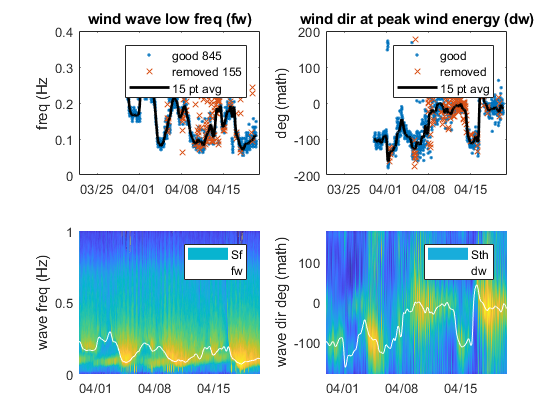
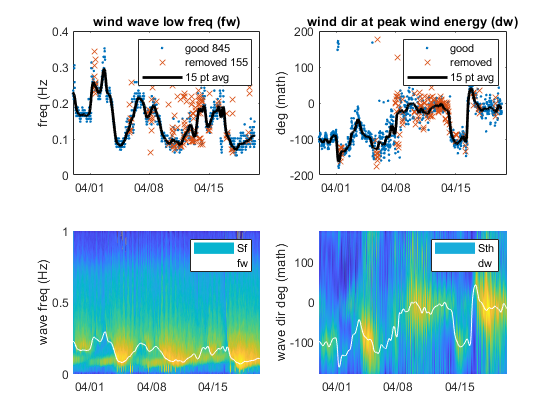
updated master_partition.m

diff --git a/html/waveparamspart.html b/html/waveparamspart.html
@@ -6,7 +6,7 @@
    <!--
 This HTML was auto-generated from MATLAB code.
 To make changes, update the MATLAB code and republish this document.
-      --><title>waveparamspart</title><meta name="generator" content="MATLAB 9.3"><link rel="schema.DC" href="http://purl.org/dc/elements/1.1/"><meta name="DC.date" content="2019-04-12"><meta name="DC.source" content="waveparamspart.m"><style type="text/css">
+      --><title>waveparamspart</title><meta name="generator" content="MATLAB 9.3"><link rel="schema.DC" href="http://purl.org/dc/elements/1.1/"><meta name="DC.date" content="2019-10-13"><meta name="DC.source" content="waveparamspart.m"><style type="text/css">
 html,body,div,span,applet,object,iframe,h1,h2,h3,h4,h5,h6,p,blockquote,pre,a,abbr,acronym,address,big,cite,code,del,dfn,em,font,img,ins,kbd,q,s,samp,small,strike,strong,sub,sup,tt,var,b,u,i,center,dl,dt,dd,ol,ul,li,fieldset,form,label,legend,table,caption,tbody,tfoot,thead,tr,th,td{margin:0;padding:0;border:0;outline:0;font-size:100%;vertical-align:baseline;background:transparent}body{line-height:1}ol,ul{list-style:none}blockquote,q{quotes:none}blockquote:before,blockquote:after,q:before,q:after{content:'';content:none}:focus{outine:0}ins{text-decoration:none}del{text-decoration:line-through}table{border-collapse:collapse;border-spacing:0}
 
 html { min-height:100%; margin-bottom:1px; }
@@ -66,26 +66,32 @@ table td { padding:7px 5px; text-align:left; vertical-align:top; border:1px soli
 
 
 
-  </style></head><body><div class="content"><h2>Contents</h2><div><ul><li><a href="#1">waveparamspart.m</a></li><li><a href="#3">Inputs</a></li><li><a href="#4">Outputs</a></li><li><a href="#5">Uses</a></li><li><a href="#6">Authors</a></li><li><a href="#7">Copyright 2019 Douglas Cahl, George Voulgaris</a></li><li><a href="#8">Main Function</a></li></ul></div><h2 id="1">waveparamspart.m</h2><pre class="codeinput"><span class="keyword">function</span> [f,D,Ee,H] = waveparamspart(E,freq,dir,AA,h)
-</pre><pre>[f,D,Ee,H] = waveparamspart(E,freq,dir,AA,[h])</pre><pre>Function to calculate the wave parameters for each partition of the
-spectrum. The peak values for each partition are estimated as well as
-the mean and other parameters as described in Hanson and Phillips (2001)
-(see Appendix therein).</pre><h2 id="3">Inputs</h2><pre>E    = Directional Wave energy density (m2/Hz/deg)
+  </style></head><body><div class="content"><h2>Contents</h2><div><ul><li><a href="#1">waveparamspart.m</a></li><li><a href="#3">Inputs</a></li><li><a href="#4">Outputs</a></li><li><a href="#5">Uses</a></li><li><a href="#6">Updates</a></li><li><a href="#7">Authors</a></li><li><a href="#8">Copyright 2019 Douglas Cahl, George Voulgaris</a></li><li><a href="#9">Main Function</a></li></ul></div><h2 id="1">waveparamspart.m</h2><pre class="codeinput"><span class="keyword">function</span> [f,D,Ee,H,Er,Np] = waveparamspart(E,freq,dir,AA,h)
+</pre><pre>[f,D,Ee,H,Er,Np] = waveparamspart(E,freq,dir,AA,[h])</pre><pre>Function to calculate the wave parameters for each partition of the
+spectrum plus the total bulk parameters using the full, unpartitioned spectrum.
+The peak and mean values for each partition are estimated as well as
+other parameters as described in Hanson and Phillips (2001),(see Appendix therein).</pre><h2 id="3">Inputs</h2><pre>E    = Directional Wave energy density (m2/Hz/deg)
 freq = frequency array of spectral estimates (Hz)
 dir  = direction array of spectral estimates (degs)
 AA   = Matrix same dimensions as E indentifying partition element by a number.
-h    = water depth [Optional]</pre><h2 id="4">Outputs</h2><pre>f(2,n) = [fm fp] Mean and Peak frequency of each partition n (Hz)
-D(3,n) = [Dm Dp sigma] Mean and Peak direction (degs) and Directional spead of each partition n
-Ee(2,n)= [Et Ep] Total and Peak energy of each partition n (m2 and m2/Hz/degs)
-H(3,n) = [Hrms Hsig psi] rms and significant wave height (m) and significant slope</pre><h2 id="5">Uses</h2><pre>dispersion.m  - function to solve the dispersion equation for shallow waters</pre><h2 id="6">Authors</h2><pre>Douglas Cahl and George Voulgaris
+h    = water depth [Optional]</pre><h2 id="4">Outputs</h2><pre>f (1:2,1:Np+1) = [fm fp] Mean and Peak frequency of each partition (Hz)
+D (1:3,1:Np+1) = [Dm Dp sigma] Mean and Peak direction (degs) and Directional spead of each partition n
+Ee(1:2,1:Np+1) = [Et Ep] Total and Peak energy of each partition n (m2 and m2/Hz/degs)
+H (1:3,1:Np+1) = [Hrms Hsig psi] rms and significant wave height (m) and significant slope
+Er             = Diagnostic error (in %) showing the energy not represented by
+                 the partitions. Er= 100*( Etotal-sum(Epartitions) ) / Etotal.
+Np             = Number of partitions</pre><pre>note:  the bulk parameter values are reported at location Np+1, after
+the partitioned parameters.</pre><h2 id="5">Uses</h2><pre>dispersion.m  - function to solve the dispersion equation for shallow waters</pre><h2 id="6">Updates</h2><pre>10/13/2019    -  The diagnostic Er and bulk parameter estimations were
+                 added. Also the mean period estimation was wrong and it
+                 has been corrected.</pre><h2 id="7">Authors</h2><pre>Douglas Cahl and George Voulgaris
 School of the Earth, Ocean and Environment
-University of South Carolina, Columbia, SC, USA</pre><h2 id="7">Copyright 2019 Douglas Cahl, George Voulgaris</h2><p>This file is part of WavePart.</p><p>WavePart is free software: you can redistribute it and/or modify it under the terms of the GNU General Public License as published by the Free Software Foundation, either version 3 of the License, or (at your option) any later version.</p><p>This program is distributed in the hope that it will be useful, but WITHOUT ANY WARRANTY; without even the implied warranty of MERCHANTABILITY or FITNESS FOR A PARTICULAR PURPOSE.  See the GNU General Public License for more details.</p><p>You should have received a copy of the GNU General Public License along with this program.  If not, see <a href="https://www.gnu.org/licenses/">https://www.gnu.org/licenses/</a>.</p><h2 id="8">Main Function</h2><pre class="codeinput"><span class="keyword">if</span> nargin&lt;5 || isempty(h)
+University of South Carolina, Columbia, SC, USA</pre><h2 id="8">Copyright 2019 Douglas Cahl, George Voulgaris</h2><p>This file is part of WavePart.</p><p>WavePart is free software: you can redistribute it and/or modify it under the terms of the GNU General Public License as published by the Free Software Foundation, either version 3 of the License, or (at your option) any later version.</p><p>This program is distributed in the hope that it will be useful, but WITHOUT ANY WARRANTY; without even the implied warranty of MERCHANTABILITY or FITNESS FOR A PARTICULAR PURPOSE.  See the GNU General Public License for more details.</p><p>You should have received a copy of the GNU General Public License along with this program.  If not, see <a href="https://www.gnu.org/licenses/">https://www.gnu.org/licenses/</a>.</p><h2 id="9">Main Function</h2><pre class="codeinput"><span class="keyword">if</span> nargin&lt;5 || isempty(h)
     h=1000;   <span class="comment">% Deep water conditions</span>
 <span class="keyword">end</span>
 g   = 9.81;
-Nw1 = max(max(AA)); <span class="comment">% total number of partitions</span>
-f   = ones(2,Nw1);
-D   = ones(3,Nw1);
+Np  = max(max(AA)); <span class="comment">% total number of partitions</span>
+f   = ones(2,Np+1);
+D   = ones(3,Np+1);
 Ee  = f;
 H   = D;
 df  = freq(2)-freq(1);
@@ -94,18 +100,25 @@ dth = dir(2)-dir(1);
                     <span class="comment">% nf = no of freq. bins, nd (~)= no of direction bins</span>
 the  = repmat(dir(:)',nf,1);
 <span class="comment">%</span>
-<span class="keyword">for</span> i = 1:Nw1                                 <span class="comment">% for each partition i</span>
-    Mask1   = AA == i;
-    Epart   = E.*Mask1;                       <span class="comment">% Si(f,theta)</span>
+Etotal  = sum(sum(E))*df*dth;                 <span class="comment">% \int S(f,theta) - Total energy</span>
+<span class="comment">%</span>
+<span class="keyword">for</span> i = 1:Np+1                               <span class="comment">% for each partition i, plus total</span>
+    <span class="keyword">if</span> i&lt;=Np
+        Mask1 = AA == i;
+        Epart = E.*Mask1;                     <span class="comment">% Partition i (Si(f,theta))</span>
+    <span class="keyword">else</span>
+        Epart = E;                            <span class="comment">% Total (S(f,theta))</span>
+    <span class="keyword">end</span>
     [~,k]   = max(Epart(:));
-    [I1,J1] = ind2sub(size(AA),k);
+    [I1,J1] = ind2sub(size(Epart),k);
     fp      = freq(I1);                       <span class="comment">% Peak frequency for Si</span>
     Dp      = dir(J1);                        <span class="comment">% Peak direction for Si</span>
     Ep      = E(I1,J1);                       <span class="comment">% Peak energy level for Si</span>
     Et      = sum(sum(Epart))*df*dth;         <span class="comment">% \int Si(f,theta)</span>
     Hrms    = sqrt(2*Et);                     <span class="comment">% Hrms wave height (m)</span>
     Hsig    = 4*sqrt(Et);                     <span class="comment">% Hsig wave height (m)</span>
-    fm      = sum(sum(Epart,2)./freq)*df*dth; <span class="comment">% Mean freq. of Si</span>
+    fm      = sum(sum(Epart,2).*freq)/<span class="keyword">...</span><span class="comment">     % Mean freq. of Si (m1/m0)</span>
+              sum(sum(Epart));
     f(1:2,i)= [fm fp];
     sino    = sum(sum(Epart.*sind(the)))/Et;  <span class="comment">% normalised</span>
     coso    = sum(sum(Epart.*cosd(the)))/Et;  <span class="comment">%</span>
@@ -119,18 +132,19 @@ the  = repmat(dir(:)',nf,1);
     psi     = Hsig/Lp;                        <span class="comment">% Significant slope (Huang 1986)</span>
     H(1:3,i)= [Hrms,Hsig,psi];
 <span class="keyword">end</span>
+Er=(Etotal-sum(Ee(1,:)))/Etotal;              <span class="comment">% Error in total energy partitioned (in %)</span>
 </pre><pre class="codeinput"><span class="keyword">end</span>
 </pre><p class="footer"><br><a href="http://www.mathworks.com/products/matlab/">Published with MATLAB&reg; R2017b</a><br></p></div><!--
 ##### SOURCE BEGIN #####
 %% waveparamspart.m
-function [f,D,Ee,H] = waveparamspart(E,freq,dir,AA,h)
+function [f,D,Ee,H,Er,Np] = waveparamspart(E,freq,dir,AA,h)
 %%  
-%  [f,D,Ee,H] = waveparamspart(E,freq,dir,AA,[h])
+%  [f,D,Ee,H,Er,Np] = waveparamspart(E,freq,dir,AA,[h])
 %
 %  Function to calculate the wave parameters for each partition of the
-%  spectrum. The peak values for each partition are estimated as well as
-%  the mean and other parameters as described in Hanson and Phillips (2001)
-%  (see Appendix therein).
+%  spectrum plus the total bulk parameters using the full, unpartitioned spectrum. 
+%  The peak and mean values for each partition are estimated as well as
+%  other parameters as described in Hanson and Phillips (2001),(see Appendix therein).
 %
 %% Inputs
 %  E    = Directional Wave energy density (m2/Hz/deg)
@@ -140,13 +154,24 @@ function [f,D,Ee,H] = waveparamspart(E,freq,dir,AA,h)
 %  h    = water depth [Optional]
 %
 %% Outputs
-%  f(2,n) = [fm fp] Mean and Peak frequency of each partition n (Hz)
-%  D(3,n) = [Dm Dp sigma] Mean and Peak direction (degs) and Directional spead of each partition n
-%  Ee(2,n)= [Et Ep] Total and Peak energy of each partition n (m2 and m2/Hz/degs)
-%  H(3,n) = [Hrms Hsig psi] rms and significant wave height (m) and significant slope
+%  f (1:2,1:Np+1) = [fm fp] Mean and Peak frequency of each partition (Hz)
+%  D (1:3,1:Np+1) = [Dm Dp sigma] Mean and Peak direction (degs) and Directional spead of each partition n
+%  Ee(1:2,1:Np+1) = [Et Ep] Total and Peak energy of each partition n (m2 and m2/Hz/degs)
+%  H (1:3,1:Np+1) = [Hrms Hsig psi] rms and significant wave height (m) and significant slope
+%  Er             = Diagnostic error (in %) showing the energy not represented by
+%                   the partitions. Er= 100*( Etotal-sum(Epartitions) ) / Etotal.
+%  Np             = Number of partitions
+% 
+%  note:  the bulk parameter values are reported at location Np+1, after
+%  the partitioned parameters.
 %
 %% Uses 
 %  dispersion.m  - function to solve the dispersion equation for shallow waters
+%
+%% Updates
+%  10/13/2019    -  The diagnostic Er and bulk parameter estimations were
+%                   added. Also the mean period estimation was wrong and it
+%                   has been corrected. 
 %
 %% Authors
 %  Douglas Cahl and George Voulgaris
@@ -175,9 +200,9 @@ if nargin<5 || isempty(h)
     h=1000;   % Deep water conditions
 end
 g   = 9.81;
-Nw1 = max(max(AA)); % total number of partitions
-f   = ones(2,Nw1);
-D   = ones(3,Nw1);
+Np  = max(max(AA)); % total number of partitions
+f   = ones(2,Np+1);
+D   = ones(3,Np+1);
 Ee  = f;
 H   = D;
 df  = freq(2)-freq(1);
@@ -186,18 +211,25 @@ dth = dir(2)-dir(1);
                     % nf = no of freq. bins, nd (~)= no of direction bins
 the  = repmat(dir(:)',nf,1);
 %
-for i = 1:Nw1                                 % for each partition i
-    Mask1   = AA == i;                        
-    Epart   = E.*Mask1;                       % Si(f,theta)
+Etotal  = sum(sum(E))*df*dth;                 % \int S(f,theta) - Total energy
+%
+for i = 1:Np+1                               % for each partition i, plus total
+    if i<=Np
+        Mask1 = AA == i;
+        Epart = E.*Mask1;                     % Partition i (Si(f,theta))
+    else
+        Epart = E;                            % Total (S(f,theta))
+    end
     [~,k]   = max(Epart(:));
-    [I1,J1] = ind2sub(size(AA),k);
+    [I1,J1] = ind2sub(size(Epart),k);
     fp      = freq(I1);                       % Peak frequency for Si
     Dp      = dir(J1);                        % Peak direction for Si
     Ep      = E(I1,J1);                       % Peak energy level for Si
     Et      = sum(sum(Epart))*df*dth;         % \int Si(f,theta)
     Hrms    = sqrt(2*Et);                     % Hrms wave height (m)
     Hsig    = 4*sqrt(Et);                     % Hsig wave height (m)
-    fm      = sum(sum(Epart,2)./freq)*df*dth; % Mean freq. of Si
+    fm      = sum(sum(Epart,2).*freq)/...     % Mean freq. of Si (m1/m0)
+              sum(sum(Epart));
     f(1:2,i)= [fm fp];
     sino    = sum(sum(Epart.*sind(the)))/Et;  % normalised
     coso    = sum(sum(Epart.*cosd(the)))/Et;  %
@@ -211,6 +243,7 @@ for i = 1:Nw1                                 % for each partition i
     psi     = Hsig/Lp;                        % Significant slope (Huang 1986)
     H(1:3,i)= [Hrms,Hsig,psi];
 end
+Er=(Etotal-sum(Ee(1,:)))/Etotal;              % Error in total energy partitioned (in %)
 end
 ##### SOURCE END #####
 --></body></html>

diff --git a/html/master_partition.html b/html/master_partition.html
@@ -6,7 +6,7 @@
    <!--
 This HTML was auto-generated from MATLAB code.
 To make changes, update the MATLAB code and republish this document.
-      --><title>master_partition</title><meta name="generator" content="MATLAB 9.3"><link rel="schema.DC" href="http://purl.org/dc/elements/1.1/"><meta name="DC.date" content="2019-04-12"><meta name="DC.source" content="master_partition.m"><style type="text/css">
+      --><title>master_partition</title><meta name="generator" content="MATLAB 9.4"><link rel="schema.DC" href="http://purl.org/dc/elements/1.1/"><meta name="DC.date" content="2019-10-14"><meta name="DC.source" content="master_partition.m"><style type="text/css">
 html,body,div,span,applet,object,iframe,h1,h2,h3,h4,h5,h6,p,blockquote,pre,a,abbr,acronym,address,big,cite,code,del,dfn,em,font,img,ins,kbd,q,s,samp,small,strike,strong,sub,sup,tt,var,b,u,i,center,dl,dt,dd,ol,ul,li,fieldset,form,label,legend,table,caption,tbody,tfoot,thead,tr,th,td{margin:0;padding:0;border:0;outline:0;font-size:100%;vertical-align:baseline;background:transparent}body{line-height:1}ol,ul{list-style:none}blockquote,q{quotes:none}blockquote:before,blockquote:after,q:before,q:after{content:'';content:none}:focus{outine:0}ins{text-decoration:none}del{text-decoration:line-through}table{border-collapse:collapse;border-spacing:0}
 
 html { min-height:100%; margin-bottom:1px; }
@@ -77,10 +77,10 @@ fw(fw&gt;0.12) = 0.12; <span class="comment">% set maximum wind cutoff (fw = 0.1
 <span class="comment">%</span>
 </pre><img vspace="5" hspace="5" src="master_partition_01.png" alt=""> <h2 id="4">run partition routine loop</h2><pre class="codeinput">h          = 30; <span class="comment">% water depth in meters</span>
 wfc        = 1;  <span class="comment">% wind parabola limits</span>
-const_wind = 1;  <span class="comment">% if =1, uses internal windminf = 0.12, if =0 provides</span>
+const_wind = 0;  <span class="comment">% if =1, uses internal windminf = 0.12, if =0 provides</span>
                   <span class="comment">% fw (wind frequency)</span>
 <span class="comment">%</span>
-figure(<span class="string">'Position'</span>,[ 100 100 1600 1000])
+figure(<span class="string">'Position'</span>,[ 50 50 1200 800])
 <span class="keyword">for</span> i = 1:length(t) <span class="comment">% strong wind at 267, complex at 100, 287</span>
     disp(i)
     <span class="comment">% wave spectrum for timestep i</span>
@@ -91,11 +91,15 @@ figure(<span class="string">'Position'</span>,[ 100 100 1600 1000])
     <span class="keyword">else</span>
         [AA,E]=partition(freq,dir,E0,wfc,fw(i)); <span class="comment">% windminf = fw(i)</span>
     <span class="keyword">end</span>
-    np = max(max(AA)); <span class="comment">% number of partitions</span>
-    <span class="comment">% calculate wave parameters for each partition</span>
-    [f{i},D{i},Ep{i},H{i}] = waveparamspart(E,freq,dir,AA,h);
+    <span class="comment">% calculate wave parameters for each partition. Er is the percent of</span>
+    <span class="comment">% energy left in the noise partition (I.e. if Er = 10 that means 10%</span>
+    <span class="comment">% of the total energy in the spectrum did not get partitioned into wind</span>
+    <span class="comment">% and swell partitions. If this number is high, the wind frequency, fw,</span>
+    <span class="comment">% is likely set too high.</span>
+    [f{i},D{i},Ep{i},H{i},Er(i)] = waveparamspart(E,freq,dir,AA,h);
 
-    <span class="comment">% partitioned energy surf plot</span>
+<span class="comment">%     % partitioned energy surf plot</span>
+    np = max(max(AA)); <span class="comment">% number of partitions</span>
     clf
     subplot(121)
     surf(freq',dir',E',AA')
@@ -110,8 +114,7 @@ figure(<span class="string">'Position'</span>,[ 100 100 1600 1000])
     <span class="keyword">return</span>
 <span class="keyword">end</span>
 </pre><pre class="codeoutput">     1
-
-</pre><img vspace="5" hspace="5" src="master_partition_02.png" alt=""> <p class="footer"><br><a href="http://www.mathworks.com/products/matlab/">Published with MATLAB&reg; R2017b</a><br></p></div><!--
+</pre><img vspace="5" hspace="5" src="master_partition_02.png" alt=""> <p class="footer"><br><a href="https://www.mathworks.com/products/matlab/">Published with MATLAB&reg; R2018a</a><br></p></div><!--
 ##### SOURCE BEGIN #####
 %% Example script demonstrating wave partitioning of frequency - directional wave spectra
 clear
@@ -129,10 +132,10 @@ fw(fw>0.12) = 0.12; % set maximum wind cutoff (fw = 0.12 Hz)
 %% run partition routine loop
 h          = 30; % water depth in meters
 wfc        = 1;  % wind parabola limits
-const_wind = 1;  % if =1, uses internal windminf = 0.12, if =0 provides 
+const_wind = 0;  % if =1, uses internal windminf = 0.12, if =0 provides 
                   % fw (wind frequency)
 %
-figure('Position',[ 100 100 1600 1000])
+figure('Position',[ 50 50 1200 800])
 for i = 1:length(t) % strong wind at 267, complex at 100, 287
     disp(i)
     % wave spectrum for timestep i
@@ -143,11 +146,15 @@ for i = 1:length(t) % strong wind at 267, complex at 100, 287
     else
         [AA,E]=partition(freq,dir,E0,wfc,fw(i)); % windminf = fw(i)
     end
-    np = max(max(AA)); % number of partitions
-    % calculate wave parameters for each partition
-    [f{i},D{i},Ep{i},H{i}] = waveparamspart(E,freq,dir,AA,h);
+    % calculate wave parameters for each partition. Er is the percent of
+    % energy left in the noise partition (I.e. if Er = 10 that means 10%
+    % of the total energy in the spectrum did not get partitioned into wind
+    % and swell partitions. If this number is high, the wind frequency, fw,
+    % is likely set too high.
+    [f{i},D{i},Ep{i},H{i},Er(i)] = waveparamspart(E,freq,dir,AA,h);
     
-    % partitioned energy surf plot
+%     % partitioned energy surf plot
+    np = max(max(AA)); % number of partitions
     clf
     subplot(121)
     surf(freq',dir',E',AA')

diff --git a/master_partition.m b/master_partition.m
@@ -17,7 +17,7 @@ wfc        = 1;  % wind parabola limits
 const_wind = 0;  % if =1, uses internal windminf = 0.12, if =0 provides 
                   % fw (wind frequency)
 %
-figure('Position',[ 50 50 1600 900])
+figure('Position',[ 50 50 1200 800])
 for i = 1:length(t) % strong wind at 267, complex at 100, 287
     disp(i)
     % wave spectrum for timestep i
@@ -28,7 +28,6 @@ for i = 1:length(t) % strong wind at 267, complex at 100, 287
     else
         [AA,E]=partition(freq,dir,E0,wfc,fw(i)); % windminf = fw(i)
     end
-    np = max(max(AA)); % number of partitions
     % calculate wave parameters for each partition. Er is the percent of
     % energy left in the noise partition (I.e. if Er = 10 that means 10%
     % of the total energy in the spectrum did not get partitioned into wind
@@ -36,17 +35,18 @@ for i = 1:length(t) % strong wind at 267, complex at 100, 287
     % is likely set too high.
     [f{i},D{i},Ep{i},H{i},Er(i)] = waveparamspart(E,freq,dir,AA,h);
     
-    % partitioned energy surf plot
-    clf
-    subplot(121)
-    surf(freq',dir',E',AA')
-    title([datestr(t(i)) '     ' num2str(np) ' partitions'])
-    % pcolor partition plot
-    subplot(122)
-    [~,c] = polarPcolor(freq',[dir ; dir(1)]',[AA  AA(:,1)]');
-    c.Ticks = 0:np; % np ticks
-    colormap(jet(np+1))
-    drawnow
-%     pause
-    return
+%     % partitioned energy surf plot
+%     np = max(max(AA)); % number of partitions
+%     clf
+%     subplot(121)
+%     surf(freq',dir',E',AA')
+%     title([datestr(t(i)) '     ' num2str(np) ' partitions'])
+%     % pcolor partition plot
+%     subplot(122)
+%     [~,c] = polarPcolor(freq',[dir ; dir(1)]',[AA  AA(:,1)]');
+%     c.Ticks = 0:np; % np ticks
+%     colormap(jet(np+1))
+%     drawnow
+% %     pause
+%     return
 end
